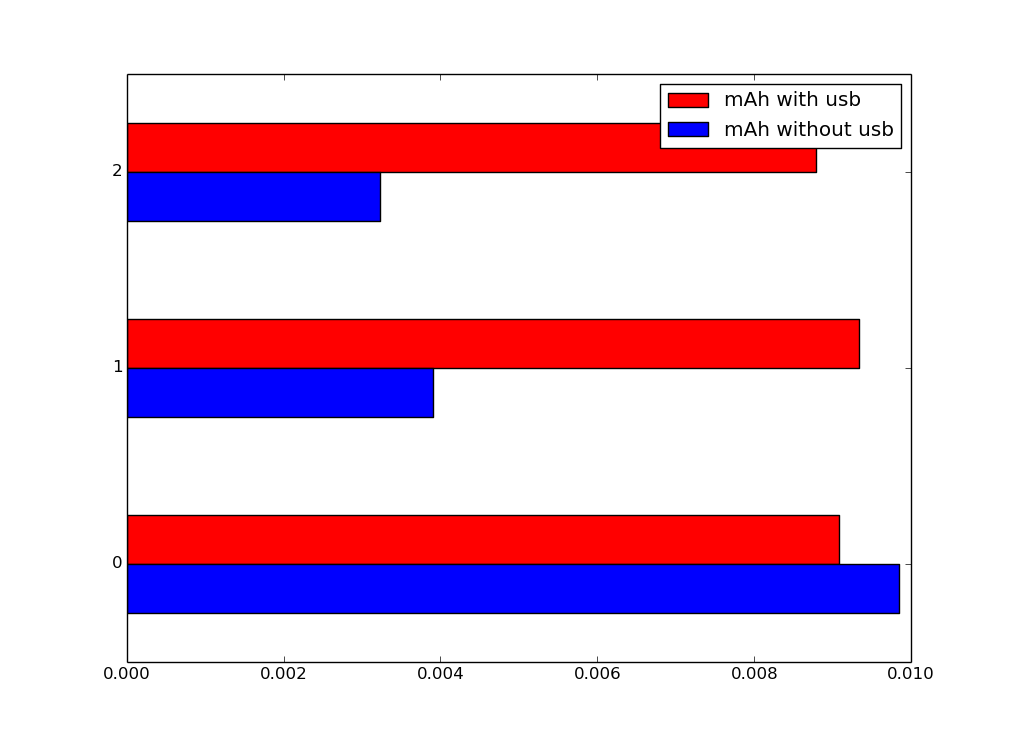
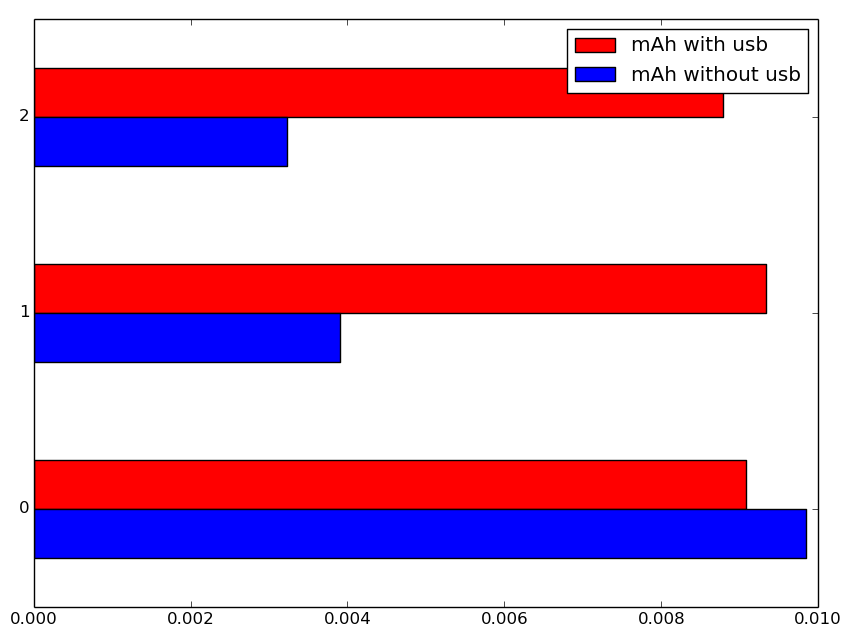
Ref added, structure fixed, pics cropped

Changed region(s): [[0.0, 0.0298, 1.0, 0.9843]]

diff --git a/thesis.tex b/thesis.tex
@@ -293,7 +293,7 @@
 	
 	В случае общей точки доступа, устройство имеет доступ к интернету, что не позволит ему находится в режиме полёта и может сильно исказить результаты при обращении других приложений к сети. Данный способ подключения далее не рассматривается.
 	
-	В случае подключения по кабелю устройство находится в состоянии зарядки. Но когда устройство заряжается, сбор статистики службой \textbf{batteryststs} приостанавливается. Для решения этой проблемы была использована возможность искусственно выключать режим зарядки на устройстве командой \textbf{adb shell dumpsys battery set usb 0}. После команды устройство продолжает заряжаться, но операционная система ведёт себя так, будто устройство не заряжается. Очевидно, что в этом случае результаты также могут искажаться, поэтому данный способ будет дополнительно протестирован в разделе {\huge TODO ref}.
+	В случае подключения по кабелю устройство находится в состоянии зарядки. Но когда устройство заряжается, сбор статистики службой \textbf{batteryststs} приостанавливается. Для решения этой проблемы была использована возможность искусственно выключать режим зарядки на устройстве командой \textbf{adb shell dumpsys battery set usb 0}. После команды устройство продолжает заряжаться, но операционная система ведёт себя так, будто устройство не заряжается. Очевидно, что в этом случае результаты также могут искажаться, поэтому данный способ будет дополнительно протестирован в подразделе~\ref{sub:nousb_test}.
 	
 	\subsection{Автоматизация процесса}
 	
@@ -413,7 +413,7 @@
 	
 	В подразделах~\ref{subsub:connection} и~\ref{subsub:activity_start} обосновывается необходимость сравнения результатов измерений, проведённых в разных условиях.
 	
-	\subsection{Влияние подключенного usb-кабеля}
+	\subsection{Влияние подключенного usb-кабеля} \label{sub:nousb_test}
 	
 	В этом подразделе будут протестированы сценарии измерений при подключённом usb-кабеле с искусственно отключённым режимом зарядки и при питании только от батареи.
 	
@@ -463,6 +463,7 @@
 		\label{fig:activity_estimation}
 	\end{figure}
 
+	\clearpage
 	\section{Постобработка результатов тестирования}
 	
 	В ходе сравнения результатов измерений в разных условиях было обнаружено, что тестируемое приложение не отображается в логах службы cpuinfo. Это может быть связано с низкими значениями затрат процессорного времени. Информация этой службы в будущем использована не будет.
@@ -586,7 +587,7 @@
 	
 	Модуль estimation в корневой директории содержит все используемые скрипты, а также результаты измерений. В директории src/androidTest содержится класс MyTestRunner, а также код автотестов. В директории src/main находятся наследники ViewWrapper, а также класс MainActivity.
 	
-	\subsection{Написание кода библиотеки}
+	\subsubsection{Написание кода библиотеки}
 	
 	При написании кода я решил начать с описания спроектированной архитектуры в синтаксисе языка программирования Kotlin. UIManager – singleton-объект, содержащий методы init и getActivityRoot. Первый ---  точка входа в приложение, он принимает объект приложения и ничего не возвращает. getActivityRoot принимает на вход объект Activity и возвращает корневое представление иерархии, привязанное к этому Activity. Adviser – интерфейс с методом findAlternativeAsync, который принимает имя класса представления, которое необходимо проанализировать, а также callback, через который будет возвращён результат, если он будет. RecommendationOutputter тоже интерфейс с методом output, принимающим объект View, для которого сформирована рекомендация и сама рекомендация в виде строки. HierarchyAnalyzer ---  абстрактный класс, так как у него имеется конструктор, принимающий реализации Adviser и RecommendationOutputter и сохраняющий их в поля на уровне абстрактного класса. Также он HierarchyAnalyzer содержит абстрактный метод analyzeDynamicHierarchy, который принимает корень иерархии элементов, которую необходимо проанализировать.
 	
